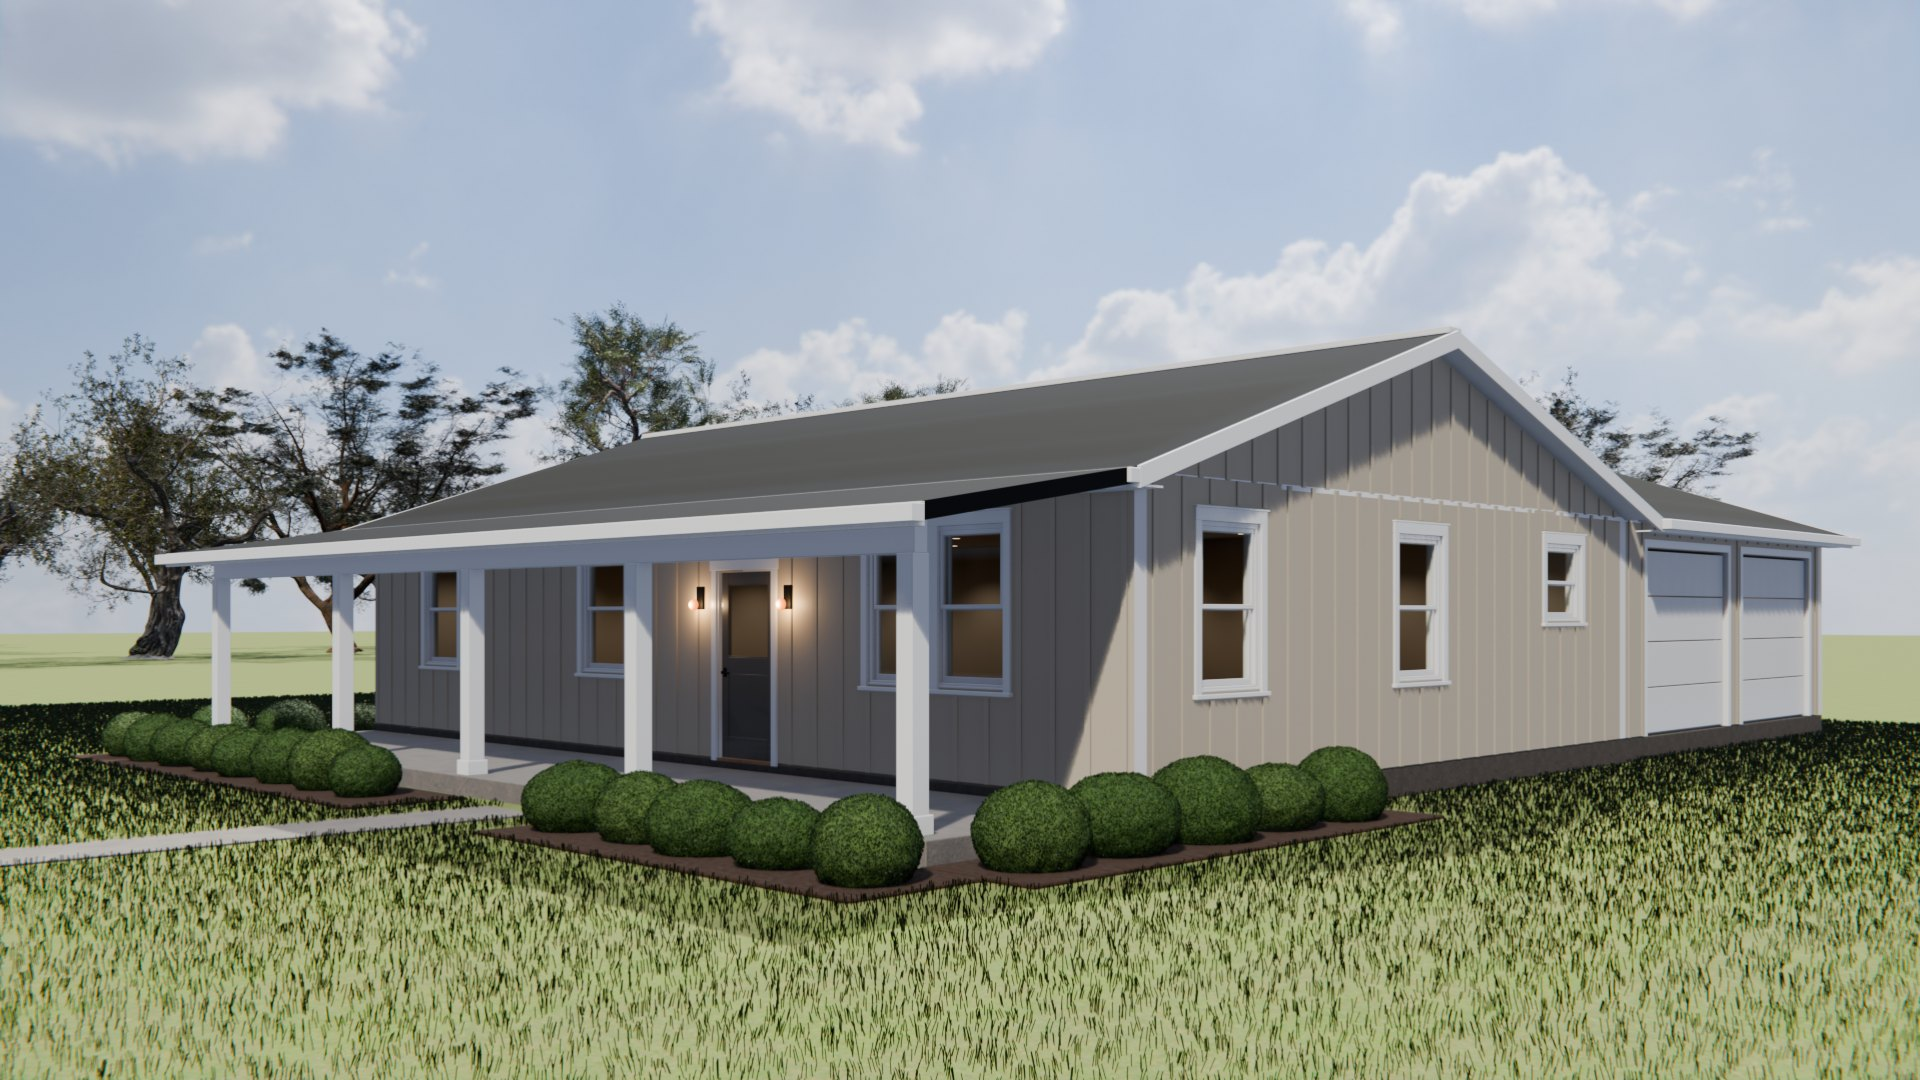
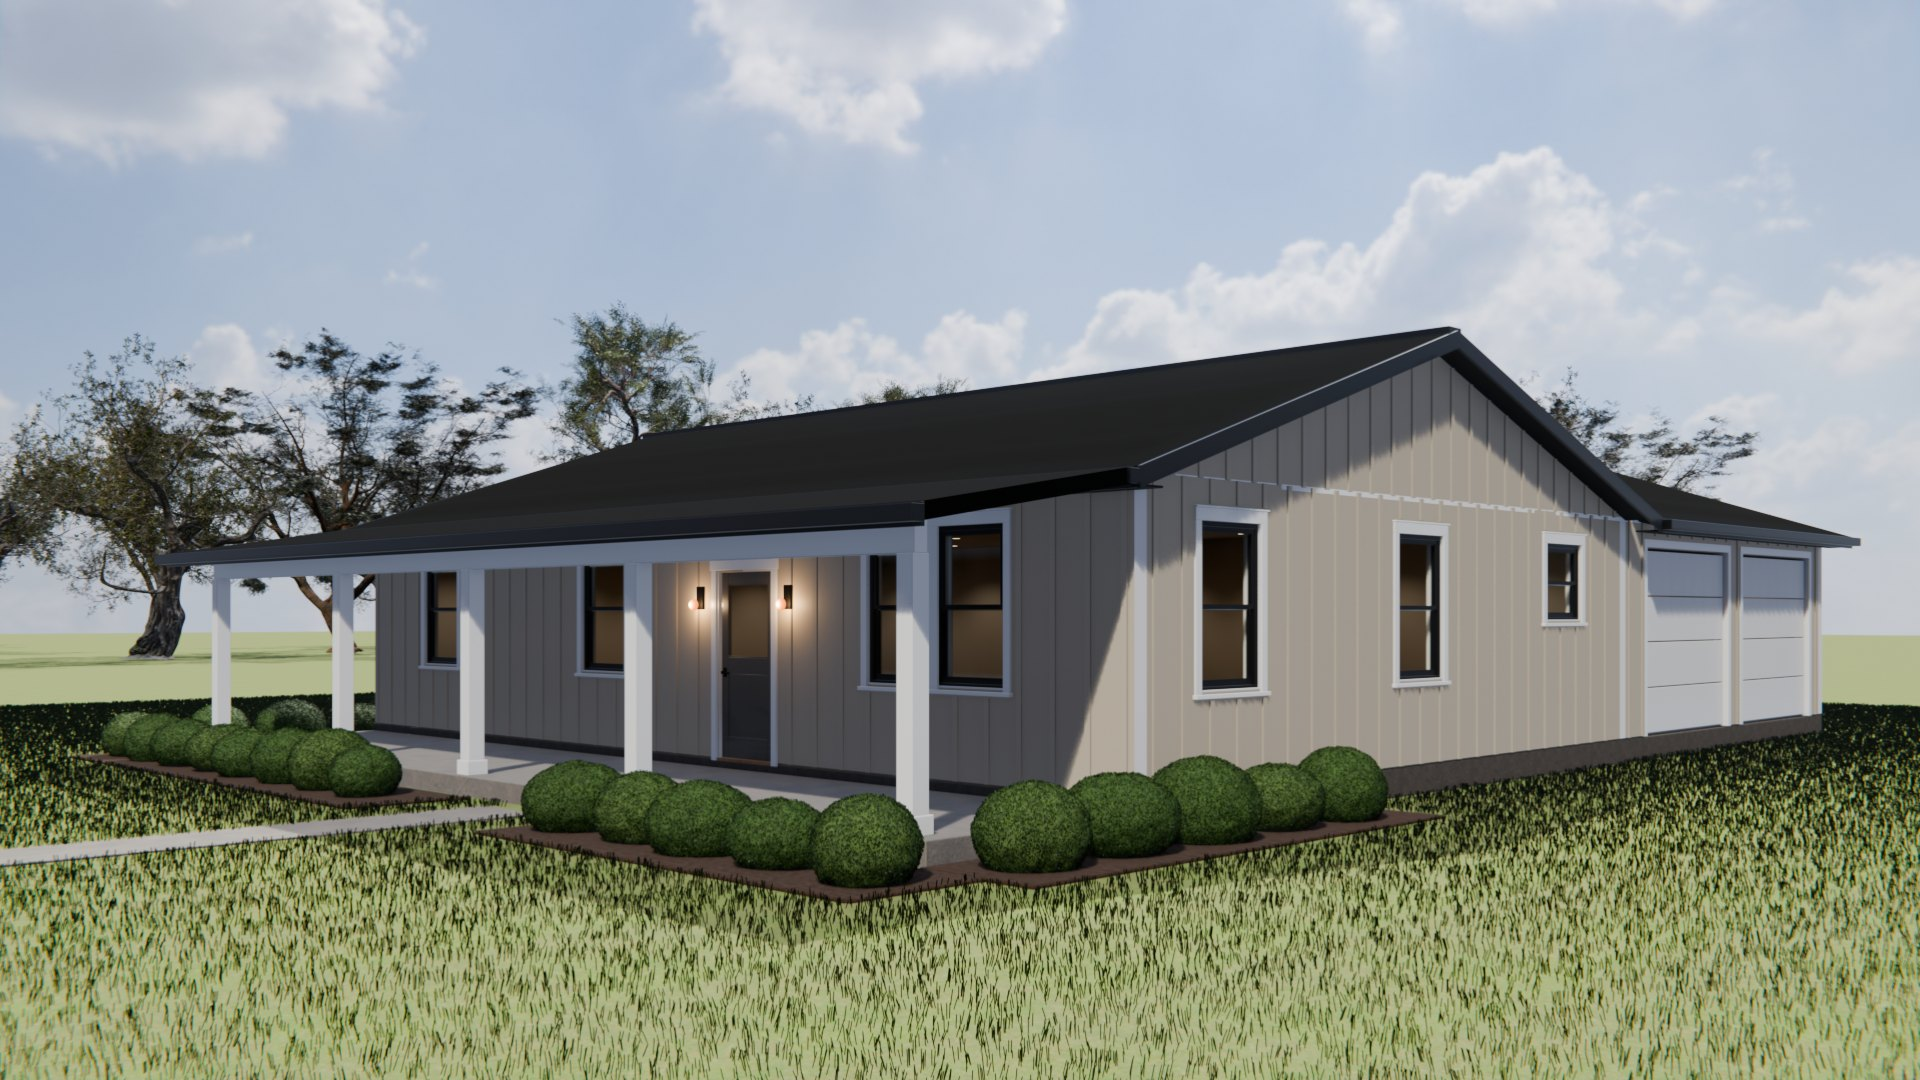
4th Street 2 colors: black windows, roof, soffit, fascia; click-through viewer

diff --git a/c/dCGWarjAAYpS/index.html b/c/dCGWarjAAYpS/index.html
@@ -6,6 +6,30 @@ p.n{color:#666;margin:0} .grid{display:grid;grid-template-columns:repeat(auto-fi
 figure{margin:0;background:#fff;border-radius:10px;overflow:hidden;box-shadow:0 1px 3px #0002} img{width:100%;display:block;aspect-ratio:16/9;object-fit:cover}
 figcaption{display:grid;grid-template-columns:34px 1fr;column-gap:10px;padding:10px 12px;align-items:center}
 figcaption i{grid-row:span 2;width:34px;height:34px;border-radius:6px;border:1px solid #0003} figcaption span{color:#666;font-size:14px}
+#lb{position:fixed;inset:0;background:#0b0b0c;z-index:9;display:flex;align-items:center;justify-content:center}#lb[hidden]{display:none}
+#lb-img{max-width:100vw;max-height:calc(100vh - 90px);object-fit:contain;user-select:none}
+#lb button{position:absolute;background:#ffffff1f;color:#fff;border:0;font-size:44px;line-height:1;width:56px;height:72px;border-radius:10px;cursor:pointer}
+#lb button:hover{background:#ffffff3a}#lb-p{left:10px;top:50%;transform:translateY(-50%)}#lb-n{right:10px;top:50%;transform:translateY(-50%)}
+#lb-x{top:10px;right:10px;height:56px!important;font-size:36px!important}
+#lb-c{position:absolute;left:0;right:0;bottom:0;padding:14px 16px;color:#eee;display:flex;gap:10px;align-items:center;flex-wrap:wrap;justify-content:center;font-size:15px}
+#lb-c i{width:22px;height:22px;border-radius:5px;border:1px solid #fff6}#lb-c span{color:#bbb}#lb-c em{color:#999;font-style:normal;margin-left:8px}
+@media(max-width:600px){#lb button{width:44px;height:60px;font-size:34px}}
 </style></head><body><main><h1>4th Street 2 — siding colors</h1>
-<p class=n>Same house, same light, only the siding color changes. Black metal roof and white trim on every one. Tap a picture to see it full size.</p>
-<p class=n>Colors on a screen are close, not exact. Look at a real sample before ordering.</p><h2>Vinyl board &amp; batten (Lowe's)</h2><div class=grid><figure><a href="img/v01-gray.jpg"><img src="img/v01-gray.jpg" loading="lazy" alt="Gray"></a><figcaption><i style="background:#B4B8B6"></i><b>Gray</b><span>$10.65/pc · In stock (buy at least 17)</span></figcaption></figure><figure><a href="img/v02-almond.jpg"><img src="img/v02-almond.jpg" loading="lazy" alt="Almond"></a><figcaption><i style="background:#E0D6BF"></i><b>Almond</b><span>$13.87/pc · Out of stock</span></figcaption></figure><figure><a href="img/v03-bayou-blue.jpg"><img src="img/v03-bayou-blue.jpg" loading="lazy" alt="Bayou Blue"></a><figcaption><i style="background:#5F7486"></i><b>Bayou Blue</b><span>$16.97/pc · Out of stock</span></figcaption></figure><figure><a href="img/v04-brunswick.jpg"><img src="img/v04-brunswick.jpg" loading="lazy" alt="Brunswick"></a><figcaption><i style="background:#46525C"></i><b>Brunswick</b><span>$21.31/pc · Out of stock</span></figcaption></figure><figure><a href="img/v05-clay.jpg"><img src="img/v05-clay.jpg" loading="lazy" alt="Clay"></a><figcaption><i style="background:#C4B8A0"></i><b>Clay</b><span>$13.77/pc · Out of stock</span></figcaption></figure><figure><a href="img/v06-dublin.jpg"><img src="img/v06-dublin.jpg" loading="lazy" alt="Dublin"></a><figcaption><i style="background:#55604F"></i><b>Dublin</b><span>$21.31/pc · Out of stock</span></figcaption></figure><figure><a href="img/v07-palm.jpg"><img src="img/v07-palm.jpg" loading="lazy" alt="Palm"></a><figcaption><i style="background:#8D8C70"></i><b>Palm</b><span>$16.97/pc · Out of stock</span></figcaption></figure><figure><a href="img/v08-pewter.jpg"><img src="img/v08-pewter.jpg" loading="lazy" alt="Pewter"></a><figcaption><i style="background:#7F8384"></i><b>Pewter</b><span>$21.31/pc · Out of stock</span></figcaption></figure><figure><a href="img/v09-shadow.jpg"><img src="img/v09-shadow.jpg" loading="lazy" alt="Shadow"></a><figcaption><i style="background:#5A5D5F"></i><b>Shadow</b><span>$21.31/pc · Out of stock</span></figcaption></figure><figure><a href="img/v10-tan.jpg"><img src="img/v10-tan.jpg" loading="lazy" alt="Tan"></a><figcaption><i style="background:#CDBD9E"></i><b>Tan</b><span>$13.87/pc · Out of stock</span></figcaption></figure><figure><a href="img/v11-teak.jpg"><img src="img/v11-teak.jpg" loading="lazy" alt="Teak"></a><figcaption><i style="background:#7B5E46"></i><b>Teak</b><span>$21.31/pc · Out of stock</span></figcaption></figure><figure><a href="img/v12-briarwood.jpg"><img src="img/v12-briarwood.jpg" loading="lazy" alt="Briarwood"></a><figcaption><i style="background:#8E7C68"></i><b>Briarwood</b><span>$16.97/pc (last listed) · No longer sold online</span></figcaption></figure><figure><a href="img/v13-hampton-red.jpg"><img src="img/v13-hampton-red.jpg" loading="lazy" alt="Hampton Red"></a><figcaption><i style="background:#7C302B"></i><b>Hampton Red</b><span>$16.97/pc (last listed) · No longer sold online</span></figcaption></figure><figure><a href="img/v14-mist.jpg"><img src="img/v14-mist.jpg" loading="lazy" alt="Mist"></a><figcaption><i style="background:#D3D5CE"></i><b>Mist</b><span>$13.87/pc (last listed) · No longer sold online</span></figcaption></figure><figure><a href="img/v15-pearl.jpg"><img src="img/v15-pearl.jpg" loading="lazy" alt="Pearl"></a><figcaption><i style="background:#E5E1D4"></i><b>Pearl</b><span>$13.87/pc (last listed) · No longer sold online</span></figcaption></figure><figure><a href="img/v16-sagebrook.jpg"><img src="img/v16-sagebrook.jpg" loading="lazy" alt="Sagebrook"></a><figcaption><i style="background:#8E937D"></i><b>Sagebrook</b><span>$16.97/pc (last listed) · No longer sold online</span></figcaption></figure><figure><a href="img/v17-thistle.jpg"><img src="img/v17-thistle.jpg" loading="lazy" alt="Thistle"></a><figcaption><i style="background:#ACAC97"></i><b>Thistle</b><span>$16.05/pc (last listed) · No longer sold online</span></figcaption></figure><figure><a href="img/v18-white.jpg"><img src="img/v18-white.jpg" loading="lazy" alt="White"></a><figcaption><i style="background:#F0EFE9"></i><b>White</b><span>$10.88/pc (last listed) · No longer sold online</span></figcaption></figure></div><h2>James Hardie fiber cement board &amp; batten (whole-house bundle)</h2><div class=grid><figure><a href="img/h1-arctic-white.jpg"><img src="img/h1-arctic-white.jpg" loading="lazy" alt="Arctic White"></a><figcaption><i style="background:#EFEEE8"></i><b>Arctic White</b><span>$2,439.10 bundle · Whole-house bundle</span></figcaption></figure><figure><a href="img/h2-evening-blue.jpg"><img src="img/h2-evening-blue.jpg" loading="lazy" alt="Evening Blue"></a><figcaption><i style="background:#29313D"></i><b>Evening Blue</b><span>$2,493.70 bundle · Whole-house bundle</span></figcaption></figure><figure><a href="img/h3-iron-gray.jpg"><img src="img/h3-iron-gray.jpg" loading="lazy" alt="Iron Gray"></a><figcaption><i style="background:#4A4E51"></i><b>Iron Gray</b><span>$1,058.25 bundle · Whole-house bundle</span></figcaption></figure><figure><a href="img/h4-mountain-sage.jpg"><img src="img/h4-mountain-sage.jpg" loading="lazy" alt="Mountain Sage"></a><figcaption><i style="background:#8A9785"></i><b>Mountain Sage</b><span>$1,915.00 bundle · Whole-house bundle</span></figcaption></figure></div></main></body></html>
+<p class=n>Same house, same light, only the siding color changes. Black metal roof, black soffit and fascia, black windows, white trim and posts on every one. Tap a picture, then use the arrows (or swipe) to flip through them.</p>
+<p class=n>Colors on a screen are close, not exact. Look at a real sample before ordering.</p><h2>Vinyl board &amp; batten (Lowe's)</h2><div class=grid><figure><a href="img/v01-gray.jpg" data-i="0"><img src="img/v01-gray.jpg" loading="lazy" alt="Gray"></a><figcaption><i style="background:#B4B8B6"></i><b>Gray</b><span>$10.65/pc · In stock (buy at least 17)</span></figcaption></figure><figure><a href="img/v02-almond.jpg" data-i="1"><img src="img/v02-almond.jpg" loading="lazy" alt="Almond"></a><figcaption><i style="background:#E0D6BF"></i><b>Almond</b><span>$13.87/pc · Out of stock</span></figcaption></figure><figure><a href="img/v03-bayou-blue.jpg" data-i="2"><img src="img/v03-bayou-blue.jpg" loading="lazy" alt="Bayou Blue"></a><figcaption><i style="background:#5F7486"></i><b>Bayou Blue</b><span>$16.97/pc · Out of stock</span></figcaption></figure><figure><a href="img/v04-brunswick.jpg" data-i="3"><img src="img/v04-brunswick.jpg" loading="lazy" alt="Brunswick"></a><figcaption><i style="background:#46525C"></i><b>Brunswick</b><span>$21.31/pc · Out of stock</span></figcaption></figure><figure><a href="img/v05-clay.jpg" data-i="4"><img src="img/v05-clay.jpg" loading="lazy" alt="Clay"></a><figcaption><i style="background:#C4B8A0"></i><b>Clay</b><span>$13.77/pc · Out of stock</span></figcaption></figure><figure><a href="img/v06-dublin.jpg" data-i="5"><img src="img/v06-dublin.jpg" loading="lazy" alt="Dublin"></a><figcaption><i style="background:#55604F"></i><b>Dublin</b><span>$21.31/pc · Out of stock</span></figcaption></figure><figure><a href="img/v07-palm.jpg" data-i="6"><img src="img/v07-palm.jpg" loading="lazy" alt="Palm"></a><figcaption><i style="background:#8D8C70"></i><b>Palm</b><span>$16.97/pc · Out of stock</span></figcaption></figure><figure><a href="img/v08-pewter.jpg" data-i="7"><img src="img/v08-pewter.jpg" loading="lazy" alt="Pewter"></a><figcaption><i style="background:#7F8384"></i><b>Pewter</b><span>$21.31/pc · Out of stock</span></figcaption></figure><figure><a href="img/v09-shadow.jpg" data-i="8"><img src="img/v09-shadow.jpg" loading="lazy" alt="Shadow"></a><figcaption><i style="background:#5A5D5F"></i><b>Shadow</b><span>$21.31/pc · Out of stock</span></figcaption></figure><figure><a href="img/v10-tan.jpg" data-i="9"><img src="img/v10-tan.jpg" loading="lazy" alt="Tan"></a><figcaption><i style="background:#CDBD9E"></i><b>Tan</b><span>$13.87/pc · Out of stock</span></figcaption></figure><figure><a href="img/v11-teak.jpg" data-i="10"><img src="img/v11-teak.jpg" loading="lazy" alt="Teak"></a><figcaption><i style="background:#7B5E46"></i><b>Teak</b><span>$21.31/pc · Out of stock</span></figcaption></figure><figure><a href="img/v12-briarwood.jpg" data-i="11"><img src="img/v12-briarwood.jpg" loading="lazy" alt="Briarwood"></a><figcaption><i style="background:#8E7C68"></i><b>Briarwood</b><span>$16.97/pc (last listed) · No longer sold online</span></figcaption></figure><figure><a href="img/v13-hampton-red.jpg" data-i="12"><img src="img/v13-hampton-red.jpg" loading="lazy" alt="Hampton Red"></a><figcaption><i style="background:#7C302B"></i><b>Hampton Red</b><span>$16.97/pc (last listed) · No longer sold online</span></figcaption></figure><figure><a href="img/v14-mist.jpg" data-i="13"><img src="img/v14-mist.jpg" loading="lazy" alt="Mist"></a><figcaption><i style="background:#D3D5CE"></i><b>Mist</b><span>$13.87/pc (last listed) · No longer sold online</span></figcaption></figure><figure><a href="img/v15-pearl.jpg" data-i="14"><img src="img/v15-pearl.jpg" loading="lazy" alt="Pearl"></a><figcaption><i style="background:#E5E1D4"></i><b>Pearl</b><span>$13.87/pc (last listed) · No longer sold online</span></figcaption></figure><figure><a href="img/v16-sagebrook.jpg" data-i="15"><img src="img/v16-sagebrook.jpg" loading="lazy" alt="Sagebrook"></a><figcaption><i style="background:#8E937D"></i><b>Sagebrook</b><span>$16.97/pc (last listed) · No longer sold online</span></figcaption></figure><figure><a href="img/v17-thistle.jpg" data-i="16"><img src="img/v17-thistle.jpg" loading="lazy" alt="Thistle"></a><figcaption><i style="background:#ACAC97"></i><b>Thistle</b><span>$16.05/pc (last listed) · No longer sold online</span></figcaption></figure><figure><a href="img/v18-white.jpg" data-i="17"><img src="img/v18-white.jpg" loading="lazy" alt="White"></a><figcaption><i style="background:#F0EFE9"></i><b>White</b><span>$10.88/pc (last listed) · No longer sold online</span></figcaption></figure></div><h2>James Hardie fiber cement board &amp; batten (whole-house bundle)</h2><div class=grid><figure><a href="img/h1-arctic-white.jpg" data-i="18"><img src="img/h1-arctic-white.jpg" loading="lazy" alt="Arctic White"></a><figcaption><i style="background:#EFEEE8"></i><b>Arctic White</b><span>$2,439.10 bundle · Whole-house bundle</span></figcaption></figure><figure><a href="img/h2-evening-blue.jpg" data-i="19"><img src="img/h2-evening-blue.jpg" loading="lazy" alt="Evening Blue"></a><figcaption><i style="background:#29313D"></i><b>Evening Blue</b><span>$2,493.70 bundle · Whole-house bundle</span></figcaption></figure><figure><a href="img/h3-iron-gray.jpg" data-i="20"><img src="img/h3-iron-gray.jpg" loading="lazy" alt="Iron Gray"></a><figcaption><i style="background:#4A4E51"></i><b>Iron Gray</b><span>$1,058.25 bundle · Whole-house bundle</span></figcaption></figure><figure><a href="img/h4-mountain-sage.jpg" data-i="21"><img src="img/h4-mountain-sage.jpg" loading="lazy" alt="Mountain Sage"></a><figcaption><i style="background:#8A9785"></i><b>Mountain Sage</b><span>$1,915.00 bundle · Whole-house bundle</span></figcaption></figure></div></main><div id=lb hidden><button id=lb-x aria-label=Close>&times;</button><button id=lb-p aria-label=Previous>&#8249;</button>
+<img id=lb-img alt=""><button id=lb-n aria-label=Next>&#8250;</button><div id=lb-c></div></div>
+<script>
+const D = [{"key": "v01-gray", "name": "Gray", "line": "Vinyl board & batten (Lowe's)", "price": "$10.65/pc", "status": "In stock (buy at least 17)", "hex": "#B4B8B6"}, {"key": "v02-almond", "name": "Almond", "line": "Vinyl board & batten (Lowe's)", "price": "$13.87/pc", "status": "Out of stock", "hex": "#E0D6BF"}, {"key": "v03-bayou-blue", "name": "Bayou Blue", "line": "Vinyl board & batten (Lowe's)", "price": "$16.97/pc", "status": "Out of stock", "hex": "#5F7486"}, {"key": "v04-brunswick", "name": "Brunswick", "line": "Vinyl board & batten (Lowe's)", "price": "$21.31/pc", "status": "Out of stock", "hex": "#46525C"}, {"key": "v05-clay", "name": "Clay", "line": "Vinyl board & batten (Lowe's)", "price": "$13.77/pc", "status": "Out of stock", "hex": "#C4B8A0"}, {"key": "v06-dublin", "name": "Dublin", "line": "Vinyl board & batten (Lowe's)", "price": "$21.31/pc", "status": "Out of stock", "hex": "#55604F"}, {"key": "v07-palm", "name": "Palm", "line": "Vinyl board & batten (Lowe's)", "price": "$16.97/pc", "status": "Out of stock", "hex": "#8D8C70"}, {"key": "v08-pewter", "name": "Pewter", "line": "Vinyl board & batten (Lowe's)", "price": "$21.31/pc", "status": "Out of stock", "hex": "#7F8384"}, {"key": "v09-shadow", "name": "Shadow", "line": "Vinyl board & batten (Lowe's)", "price": "$21.31/pc", "status": "Out of stock", "hex": "#5A5D5F"}, {"key": "v10-tan", "name": "Tan", "line": "Vinyl board & batten (Lowe's)", "price": "$13.87/pc", "status": "Out of stock", "hex": "#CDBD9E"}, {"key": "v11-teak", "name": "Teak", "line": "Vinyl board & batten (Lowe's)", "price": "$21.31/pc", "status": "Out of stock", "hex": "#7B5E46"}, {"key": "v12-briarwood", "name": "Briarwood", "line": "Vinyl board & batten (Lowe's)", "price": "$16.97/pc (last listed)", "status": "No longer sold online", "hex": "#8E7C68"}, {"key": "v13-hampton-red", "name": "Hampton Red", "line": "Vinyl board & batten (Lowe's)", "price": "$16.97/pc (last listed)", "status": "No longer sold online", "hex": "#7C302B"}, {"key": "v14-mist", "name": "Mist", "line": "Vinyl board & batten (Lowe's)", "price": "$13.87/pc (last listed)", "status": "No longer sold online", "hex": "#D3D5CE"}, {"key": "v15-pearl", "name": "Pearl", "line": "Vinyl board & batten (Lowe's)", "price": "$13.87/pc (last listed)", "status": "No longer sold online", "hex": "#E5E1D4"}, {"key": "v16-sagebrook", "name": "Sagebrook", "line": "Vinyl board & batten (Lowe's)", "price": "$16.97/pc (last listed)", "status": "No longer sold online", "hex": "#8E937D"}, {"key": "v17-thistle", "name": "Thistle", "line": "Vinyl board & batten (Lowe's)", "price": "$16.05/pc (last listed)", "status": "No longer sold online", "hex": "#ACAC97"}, {"key": "v18-white", "name": "White", "line": "Vinyl board & batten (Lowe's)", "price": "$10.88/pc (last listed)", "status": "No longer sold online", "hex": "#F0EFE9"}, {"key": "h1-arctic-white", "name": "Arctic White", "line": "James Hardie board & batten", "price": "$2,439.10 bundle", "status": "Whole-house bundle", "hex": "#EFEEE8"}, {"key": "h2-evening-blue", "name": "Evening Blue", "line": "James Hardie board & batten", "price": "$2,493.70 bundle", "status": "Whole-house bundle", "hex": "#29313D"}, {"key": "h3-iron-gray", "name": "Iron Gray", "line": "James Hardie board & batten", "price": "$1,058.25 bundle", "status": "Whole-house bundle", "hex": "#4A4E51"}, {"key": "h4-mountain-sage", "name": "Mountain Sage", "line": "James Hardie board & batten", "price": "$1,915.00 bundle", "status": "Whole-house bundle", "hex": "#8A9785"}]; let i = 0; const lb = document.getElementById("lb"), im = document.getElementById("lb-img"), cap = document.getElementById("lb-c");
+function show(k) { i = (k + D.length) % D.length; const d = D[i]; im.src = "img/" + d.key + ".jpg"; im.alt = d.name;
+  cap.innerHTML = `<i style="background:${d.hex}"></i><b>${d.name}</b> <span>${d.line} · ${d.price} · ${d.status}</span><em>${i + 1} of ${D.length}</em>`;
+  new Image().src = "img/" + D[(i + 1) % D.length].key + ".jpg"; }
+document.querySelectorAll("a[data-i]").forEach(a => a.onclick = e => { e.preventDefault(); lb.hidden = false; document.body.style.overflow = "hidden"; show(+a.dataset.i); });
+const close = () => { lb.hidden = true; document.body.style.overflow = ""; };
+document.getElementById("lb-x").onclick = close;
+document.getElementById("lb-p").onclick = e => { e.stopPropagation(); show(i - 1); };
+document.getElementById("lb-n").onclick = e => { e.stopPropagation(); show(i + 1); };
+lb.onclick = e => { if (e.target === lb) close(); };
+addEventListener("keydown", e => { if (lb.hidden) return; if (e.key === "ArrowRight") show(i + 1); else if (e.key === "ArrowLeft") show(i - 1); else if (e.key === "Escape") close(); });
+let x0 = null; lb.addEventListener("touchstart", e => x0 = e.touches[0].clientX, {passive: true});
+lb.addEventListener("touchend", e => { if (x0 === null) return; const dx = e.changedTouches[0].clientX - x0; if (Math.abs(dx) > 40) show(i + (dx < 0 ? 1 : -1)); x0 = null; });
+</script></body></html>
